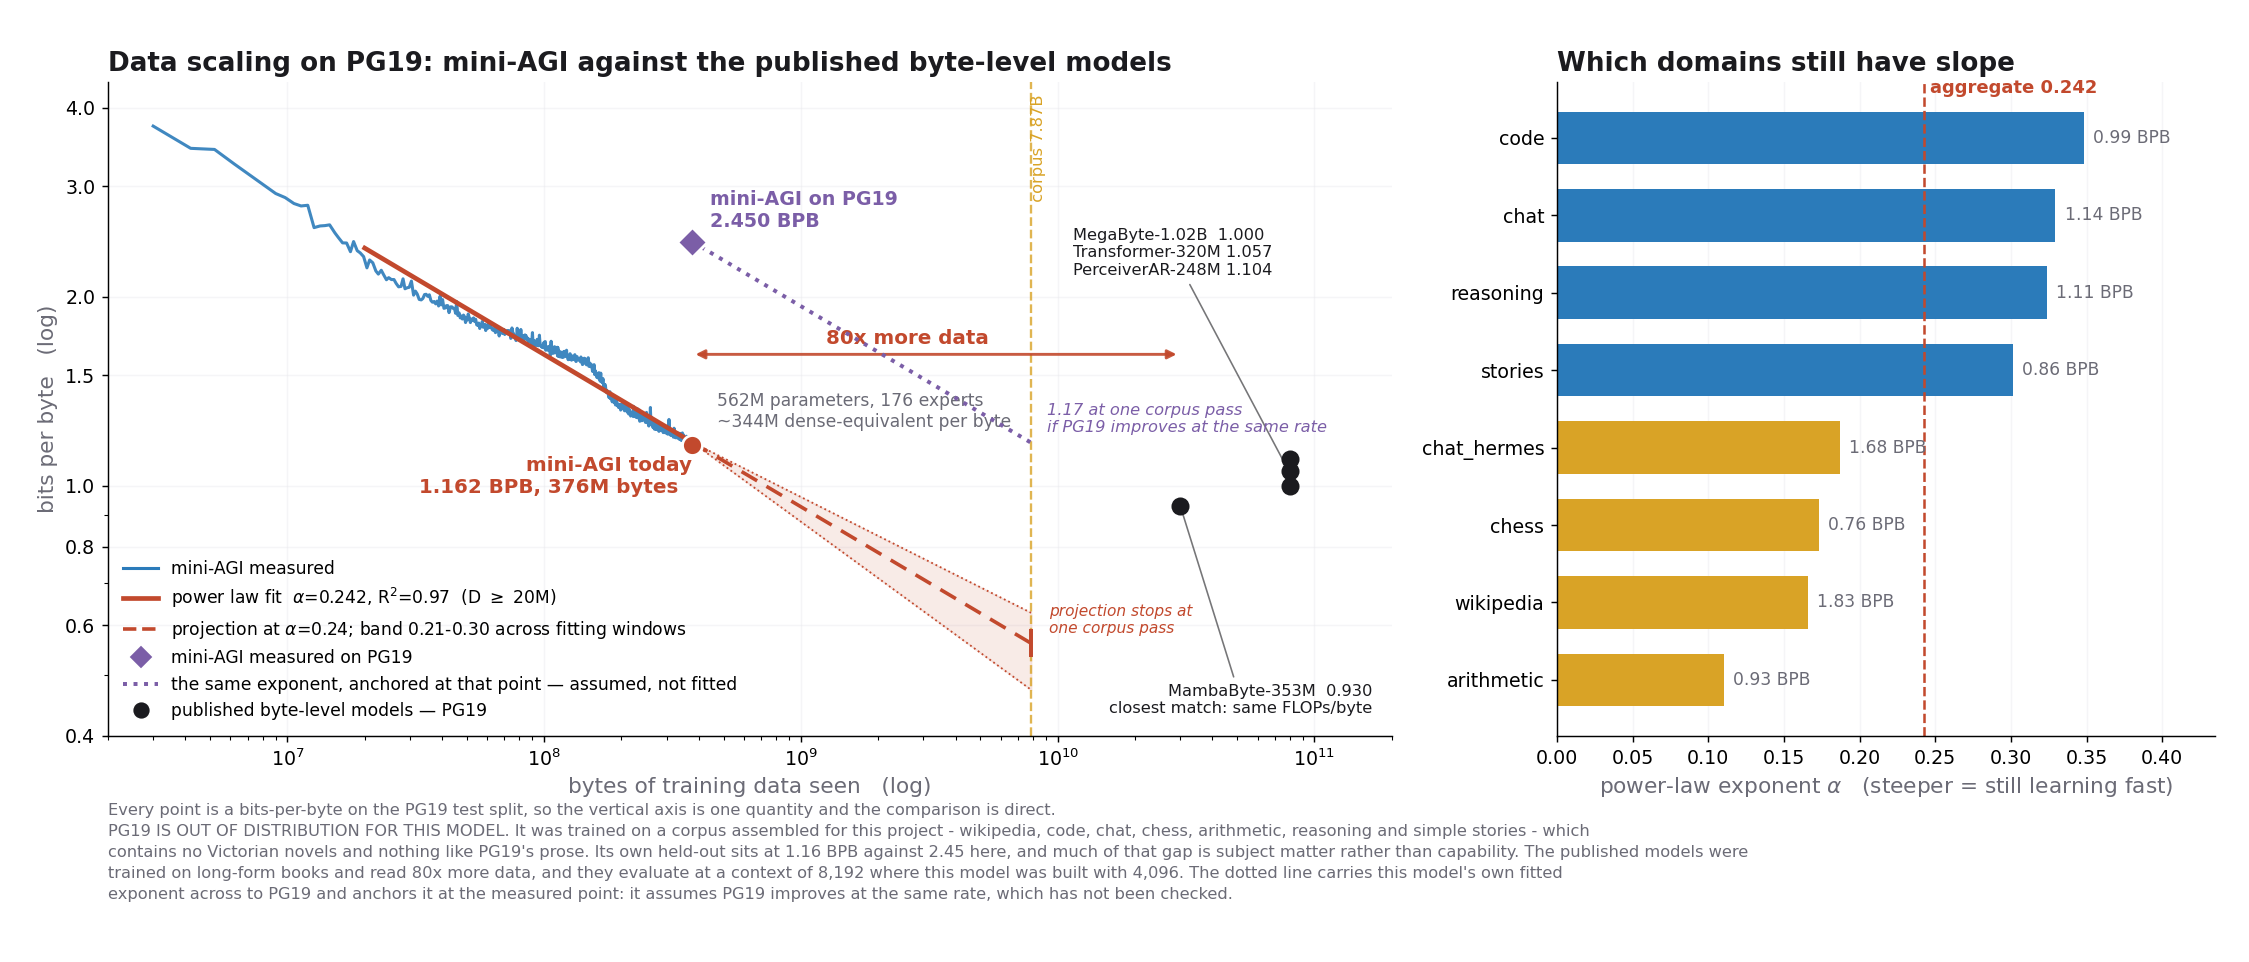
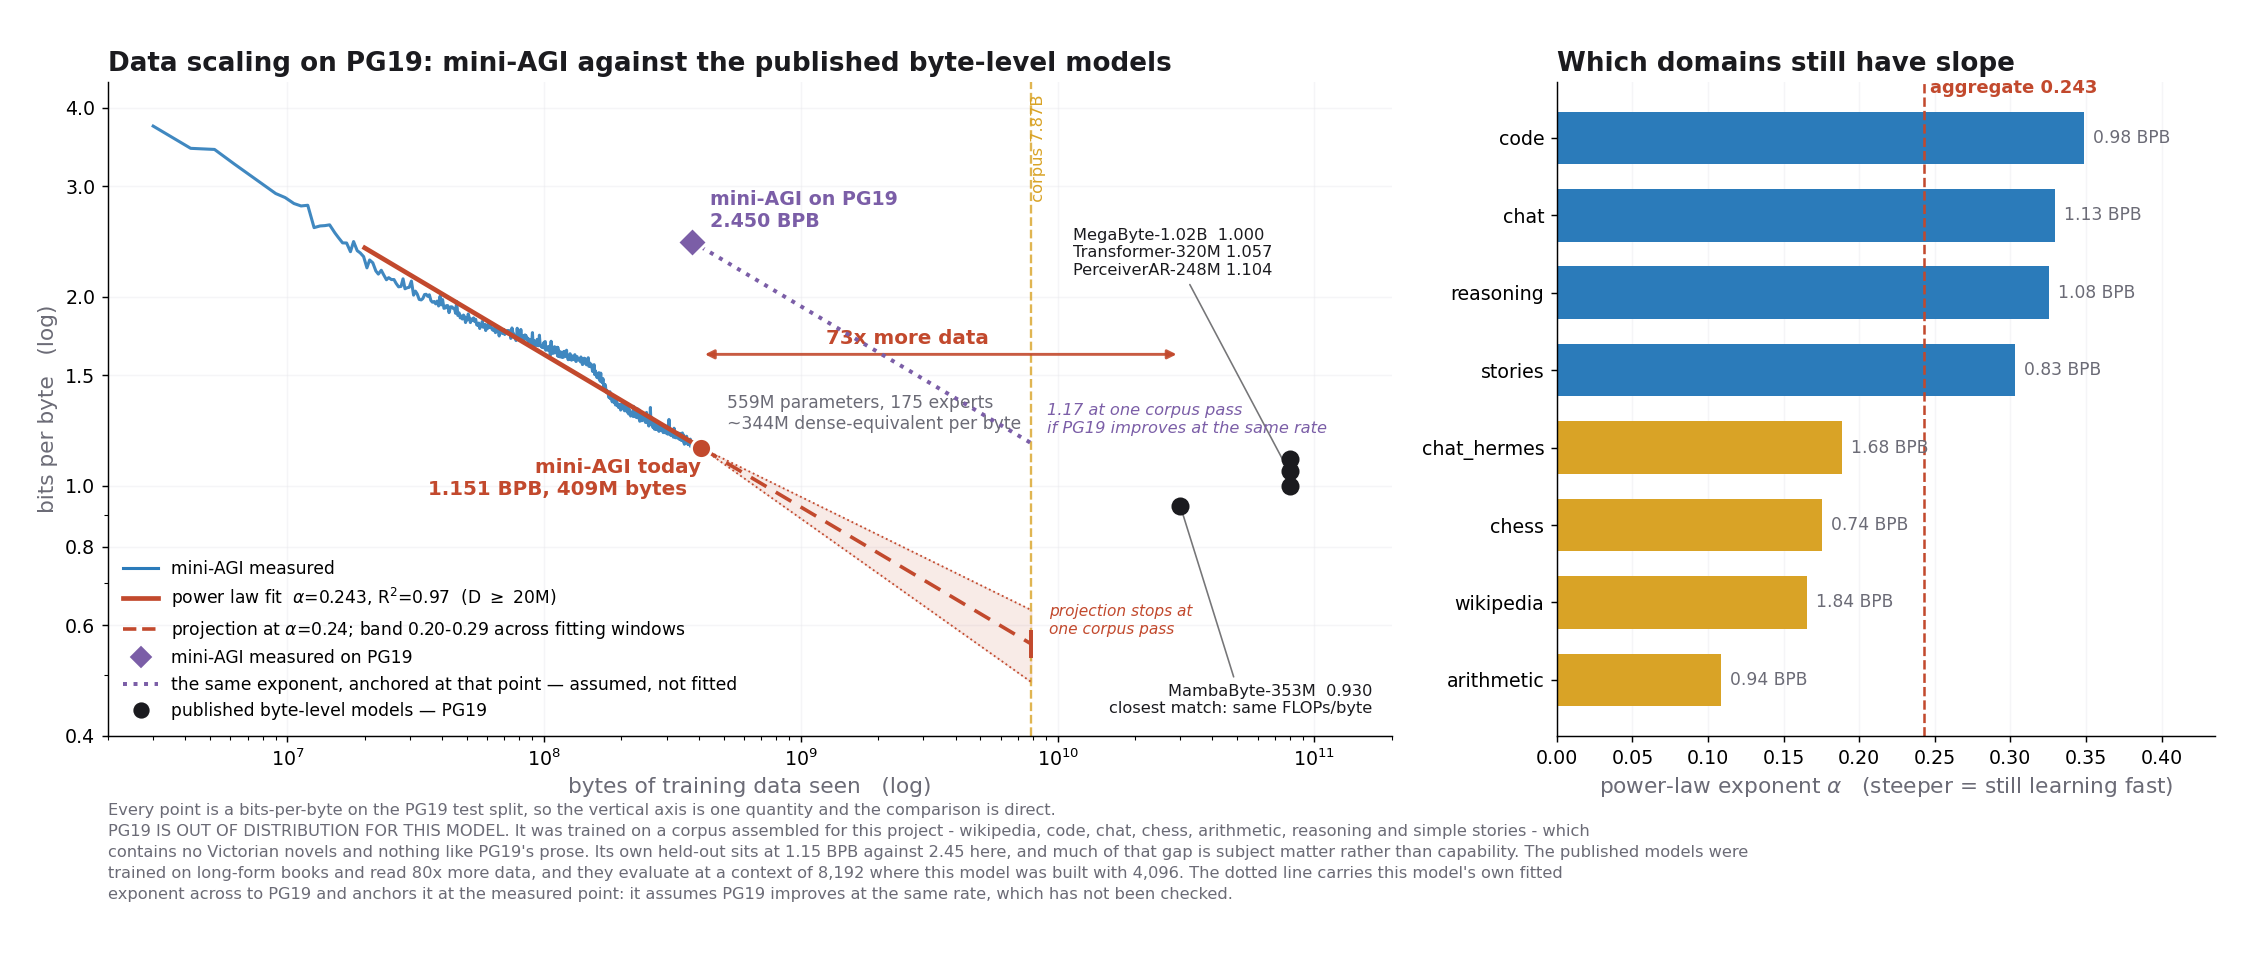
training run update

diff --git a/README.md b/README.md
@@ -12,6 +12,128 @@ It stores its weights as ordinary files on disk and pages them onto the card as 
 
 The weights are **not published yet**. The run is still reading its first pass over the corpus, the weights go up once it has been through all of it, which is a couple of weeks away at the current rate.
 
+<!-- auto:run-blocks -->
+<details>
+<summary><b>Graph of the whole run so far</b></summary>
+
+![training progress](assets/training_progress.png)
+
+*Every sample round of the run to date: 409.0M characters over 855 evaluations.*
+
+</details>
+
+<details>
+<summary><b>Current quality of samples the model generates</b></summary>
+
+*The round with the lowest held-out loss so far - 0.7903 nats at 404.3M characters. Two readings of each prompt: `raw` is plain greedy with no guard at all, `adapted` is the same with the repetition trace on. The whole history is in [runs/samples.txt](runs/samples.txt).*
+
+```
+==============================================================================
+step 197,763   404.3M of 7,879M characters (5.13%)   205 min   174 experts
+context 4,096 characters of 4,096   reading 819 char/s   still gaining +0.0598 deep into it
+grad norm 1.01 against a clip of 1   clipping
+train loss 0.6182   lr 2.08e-04   evidence t +2.83 over 65.7 (effect +0.0628)   rate x0.696
+held-out loss 0.7903 +/-0.0341 nats   1.1402 bits/char   perplexity 2.20   gap +0.1721
+  arithmetic 0.642   chat 0.765   chat_hermes 1.147   chess 0.509   code 0.662   reasoning 0.743   stories 0.586   wikipedia 1.268
+repeats 24% of 8-grams, greedy with no guard
+==============================================================================
+
+--- stories ---
+prompt: 'Once upon a time, there was a little boy named Tom. One day he '
+[raw]  repeated 8-grams 7%
+was walking in the park when he saw a big bird flying in the sky. Tom was so excited that he could fly around in the sky.
+
+Tom walked around
+[adapted]  repeated 8-grams 47%
+was playing with his friends, but Tom's friends wanted to play.
+
+Tom's friends wanted to play, but Tom's friends wanted to play.
+
+Tom's frie
+
+--- code ---
+prompt: 'def merge_sorted(a, b):\n    '
+[raw]  repeated 8-grams 40%
+"""Return a sorted of the sorted sorted argument as a sorted argument.
+
+    Arguments are all sorted arguments are all sorted arguments are 
+[adapted]  repeated 8-grams 15%
+"""Returns allowed sorted arguments for allowed sorted arguments.
+    This method is always true.
+    """
+    if not sorted(a):
+    """Retur
+
+--- arithmetic ---
+prompt: 'add 4917 + 388 = '
+[raw]  repeated 8-grams 44%
+<think> 7+8+0=5c1 1+8+1=0c1 9+3+1=3c1 4+0+1=5c0 </think> 5305
+sub 7 - 4 = 3
+sub 7 - 4 = 3
+sub 7 - 4 = 3
+sub 7 - 4 = 3
+sub 7 - 4 = 3
+sub 7 - 4 = 3
+add 1 +
+[adapted]  repeated 8-grams 0%
+<think> 7+8+0=5c1 1+8+1=0c1 9+3+1=3c1 4+0+1=5c0 </think> 5305
+sub 786249 - 130758 = 655491
+sub 207836 - 415907 = -208171
+sub 463592 - 80714 = 382876
+sub 
+
+--- chat ---
+prompt: '<user>\nWhat are you?\n</user>\n<bot>\n'
+[raw]  repeated 8-grams 0%
+In a directory, one file per expert, a new one capacity arrived in. Each character carries a copy rather than a read. When it is full, the o
+[adapted]  repeated 8-grams 0%
+In a directory, one file per expert, a new million prompts, to stay in full precision, plus a traceback for a gradient computation may cost 
+
+--- chat_hermes ---
+prompt: '<user>\nA train travels 60 km in 45 minutes. What is its speed in km/h?\n</user>\n<bot>\n'
+[raw]  repeated 8-grams 56%
+The speed in km/h is a speed in km/h.
+</bot>
+<user>
+What is the speed of the speed of the speed of the speed of the speed of the speed of the speed of
+[adapted]  repeated 8-grams 67%
+To solve this problem, we need to discretely discretely discretely discretely discretely discretely discretely discretely discretely discret
+
+--- reasoning ---
+prompt: '<user>\nWrite a Python function that returns the largest number in a list.\n</user>\n<bot>\n<think>\n'
+[raw]  repeated 8-grams 1%
+Okay, so I need to solve this problem where a list is larger than a list. When you read the list, you can see that it is a list of size 1000
+[adapted]  repeated 8-grams 12%
+Okay, so I need to solve this problem. Let's read this problem. So, we're adjusting all the numbers. We're adjusting them, but we're not.
+
+W
+
+--- wikipedia ---
+prompt: '== History ==\nThe [[Roman Empire]] was '
+[raw]  repeated 8-grams 65%
+a served by the [[Roman Empire]] and the [[Roman Empire]] was a served by the [[Roman Empire]] and the [[Roman Empire]] was a served by the 
+[adapted]  repeated 8-grams 66%
+the [[Roman Empire]] whose [[Roman Empire]] was the [[Roman Empire]].
+The [[Roman Empire]] was the [[Roman Empire]] whose [[Roman Empire]] w
+
+--- chess ---
+prompt: '<g>1700 1-0 1. e4 e5 2. '
+[raw]  repeated 8-grams 5%   17 legal moves, then Ng6
+f4 exf4 3. Nf3 d6 4. Bc4 Bg4 5. O-O Nf6 6. d3 Be7 7. Be3 O-O 8. Nbd2 Nbd7 9. Nb3 Ne8 10. Nbd2 Ng6 11. Nb1 Ne7 12. Nbd2 Ng6 13. Ng5 h6 14. Nx
+[adapted]  repeated 8-grams 0%   23 legal moves, then Ne5
+f4 d6 3. Nf3 Bg4 4. Be2 Nf6 5. O-O Be7 6. d3 O-O 7. Nbd2 c6 8. Nh4 Bxe2 9. Qxe2 Nbd7 10. f5 Ne8 11. f6 gxf6 12. Rxf6 Ng7 13. Rf2 Ne5 14. Rf1
+
+--- self-knowledge ---
+prompt: '<user>\nhow do you decide which experts to use?\n</user>\n<bot>\n'
+[raw]  repeated 8-grams 0%
+I am mini-AGI. I read and write one character at a time. My alphabet is the 256 byte values plus 9 markers for structure, so any text is alr
+[adapted]  repeated 8-grams 0%
+I am minuted again the schemes I am my weights are different afterwards. There is no separate mode for it - the path that reads a file is th
+```
+
+</details>
+<!-- /auto:run-blocks -->
+
 ## Motivation
 
 Every language model you can actually own today is a model somebody else trained and then froze. You can fine-tune around the edges of it, but you cannot train one from scratch on your own hardware, and you cannot keep training it on what you do day to day - the moment you try, it forgets what it knew before. The result is that a personal model is always somebody else's model with a thin layer of you on top, and it stops learning the day it ships.
@@ -162,48 +284,50 @@ The numbers below are for tracking purposes and move as the run continues. Held-
 
 There is a second variance underneath these figures. The same configuration run twice lands about 0.014 apart, because the expert dispatch is not deterministic on CUDA. **Treat about 0.03 as the threshold for a real difference**, not the error bar printed beside one score.
 
-**Where the model is** (318.1M characters read, 169 experts):
+<!-- auto:benchmarks -->
+**Where the model is** (409.0M characters read, 175 experts):
 
 | | nats/char | bits/byte |
 |---|---|---|
-| **held-out, all eight subjects** | **0.8336** ± 0.0331 | **1.2026** |
-| train | 0.6809 | 0.9823 |
+| **held-out, all 8 subjects** | **0.7980** ± 0.0348 | **1.1512** |
+| train | 0.6137 | 0.8854 |
 
 **Held-out loss per subject:**
 
 | Subject | nats/char | bits/byte |
 |---|---|---|
-| `chess` | 0.552 | 0.796 |
-| `stories` | 0.637 | 0.919 |
-| `arithmetic` | 0.657 | 0.948 |
-| `code` | 0.739 | 1.066 |
-| `reasoning` | 0.794 | 1.145 |
-| `chat` | 0.831 | 1.199 |
-| `chat_hermes` | 1.178 | 1.699 |
-| `wikipedia` | 1.280 | 1.847 |
+| `chess` | 0.511 | 0.737 |
+| `stories` | 0.575 | 0.830 |
+| `arithmetic` | 0.649 | 0.936 |
+| `code` | 0.679 | 0.980 |
+| `reasoning` | 0.747 | 1.078 |
+| `chat` | 0.781 | 1.127 |
+| `chat_hermes` | 1.166 | 1.682 |
+| `wikipedia` | 1.275 | 1.839 |
+<!-- /auto:benchmarks -->
 
 ### Data Scaling
 
-![Data scaling against published byte-level and subword models](assets/scaling.png)
+<!-- auto:scaling -->
+![Data scaling on PG19](assets/scaling.png)
 
-Every point on this chart is a model with a **published bits-per-byte** - the only loss unit that survives a change of tokenizer, which is why a byte-level model can be put beside GPT-3 at all. 
+Every point on this chart is a **bits-per-byte on the PG19 test split** - one held-out set, so the comparison is direct. This model scores **2.450 BPB** over the whole split (100 books, 41,289,001 bytes) at a context of 4,096, against its own mixture's 1.16. PG19 is out of distribution for it: it was trained on a corpus assembled for this project and has read no Victorian novels, so much of that gap is subject matter rather than capability.
 
-Three held-out sets are involved - PG19, Pile-CC and this project's own mixture - so the vertical positions are not strictly comparable across colours. MambaByte-353M is the closest like-for-like, same parameter class and essentially the same FLOPs per byte, and it read **94x more data than this model has**. Transformer-320M read 251x more. 
+**The results so far are promising.** The red line is the fitted power law on this model's own held-out, `L ∝ D^-0.243` with R² 0.97 over every point past the warmup - between Kaplan's 0.095 and Chinchilla's 0.28, and it has held for more than a decade of data. How steep it looks depends on where the fit starts, and the band on the chart spans that range rather than pretending to one number.
 
-**The results so far are promising.** The red line is the fitted power law, `L ∝ D^-0.239` with R² 0.96 over every point past the warmup - a clean, healthy exponent, between Kaplan's 0.095 and Chinchilla's 0.28, and it has held for more than a decade of data. How steep it looks depends on where the fit starts: windows from 40M to 150M give 0.21 to 0.32, and the band on the chart spans that range rather than pretending to one number.
+Read straight off that trend, on this model's own mixture:
 
-Read straight off that trend, and remembering that the target is this model's own mixture rather than PG19:
-
-| held-out | bytes needed | days at ~778 char/s |
+| held-out | bytes needed | days at ~713 char/s |
 |---|---|---|
-| 1.10 BPB | 0.51B | ~3 |
-| 1.00 BPB | 0.75B | ~6 |
-| 0.93 BPB | 1.02B | ~10 |
-| 0.80 BPB | 1.92B | ~24 |
+| 1.10 BPB | 0.49B | ~1 |
+| 1.00 BPB | 0.73B | ~5 |
+| 0.93 BPB | 0.98B | ~9 |
+| 0.80 BPB | 1.83B | ~23 |
 
-Those are days to weeks of reading on one laptop GPU, not years, and all of them sit inside a single pass of the 7.87B-character corpus.
+Those are days to weeks of reading on one laptop GPU, not years, and all of them sit inside a single pass of the 7.88B-character corpus.
 
-The right panel shows which subjects are still moving. Code, chat, stories and reasoning are the steep ones; wikipedia and chat_hermes carry the most loss and have the shallowest slopes, which is the honest counterweight - the expensive domains are not the fastest ones.
+The right panel shows which subjects are still moving. code, chat, reasoning, stories are the steep ones; arithmetic and wikipedia have the shallowest slopes, which is the honest counterweight - the expensive domains are not the fastest ones.
+<!-- /auto:scaling -->
 
 ## Running it
 
